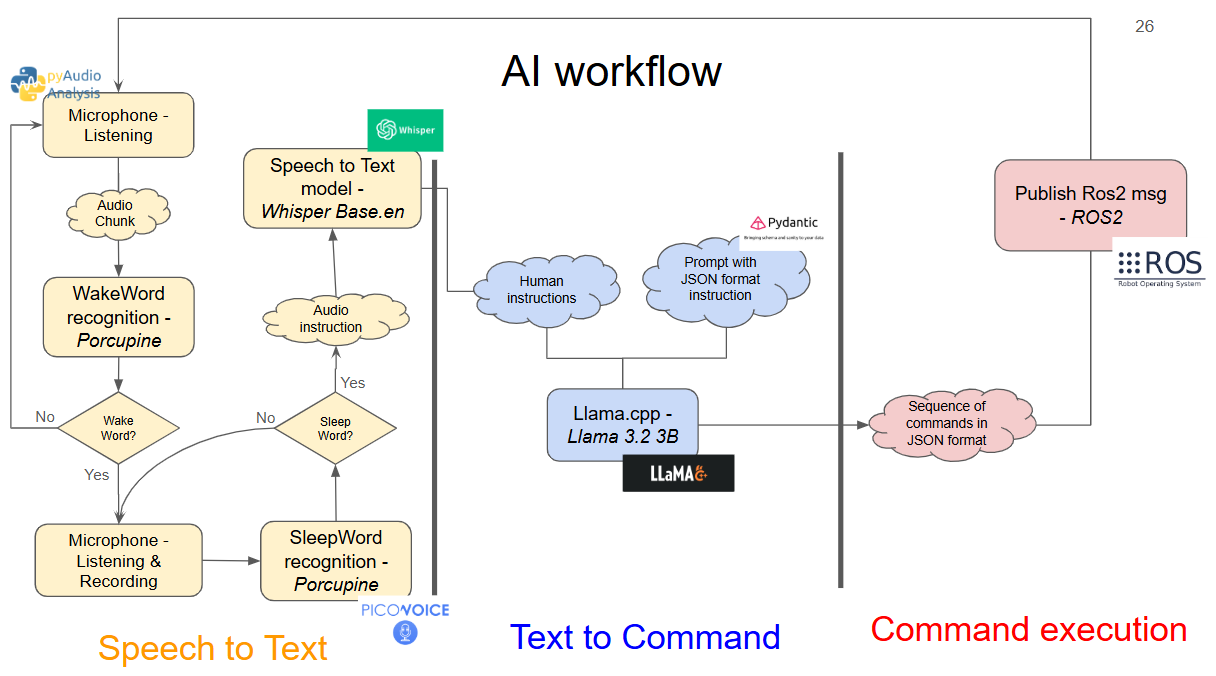
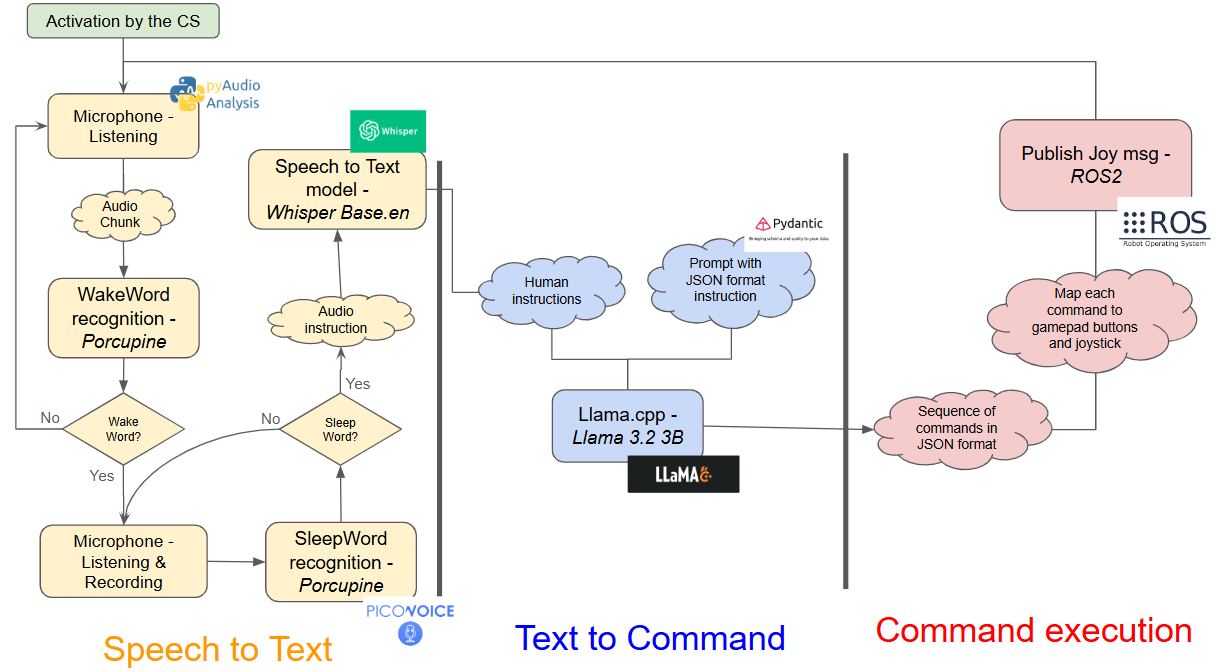
update aiworkflow and json schema

diff --git a/docker_humble_desktop/dev_ws/src/vocal_command_pkg/vocal_command_pkg/utils_comb.py b/docker_humble_desktop/dev_ws/src/vocal_command_pkg/vocal_command_pkg/utils_comb.py
@@ -213,9 +213,9 @@ def prepare_llama_cpp_generation():
         execution_speed: Optional[Literal["fast", "slow", "default"]] = Field(None, description="Execution speed for the mission")
         distance: Optional[float] = Field(None, description="Distance in meters, null otherwise")
         angle: Optional[float] = Field(None, description="Rotation angle in degrees, null otherwise")
-        camera_toggle: Optional[Literal["turn_on", "turn_off"]] = Field(None, description="Indicates whether to turn the cameras on or off, null otherwise")
-        drill_rotation_speed: Optional[int] = Field(None, description="Optional drill rotation speed, null otherwise") # in what unit??
-        drill_distance_ratio: Optional[float] = Field(None, description="Optional drill distance ratio, null otherwise") # ratio of what??
+        # camera_toggle: Optional[Literal["turn_on", "turn_off"]] = Field(None, description="Indicates whether to turn the cameras on or off, null otherwise")
+        # drill_rotation_speed: Optional[int] = Field(None, description="Optional drill rotation speed, null otherwise") # in what unit??
+        # drill_distance_ratio: Optional[float] = Field(None, description="Optional drill distance ratio, null otherwise") # ratio of what??
 
     class MissionPlan(BaseModel):
         commands: List[RoverCommand] = Field(description="List of commands to be executed by the rover")

diff --git a/docker_humble_desktop/dev_ws/src/vocal_command_pkg/vocal_command_pkg/node.py b/docker_humble_desktop/dev_ws/src/vocal_command_pkg/vocal_command_pkg/node.py
@@ -41,6 +41,7 @@ class VoCom_PubSub(Node):
 
         self.get_logger().info('ROS node for human-rover communication has started.')
         self.get_logger().info('Waiting for system activation from the Control Station...')
+        self.get_logger().info('Received (fake) boolean service from the CS')
 
         # PUBLISHER
         # qos_profile = QoSProfile(
@@ -67,7 +68,7 @@ class VoCom_PubSub(Node):
 
     def initialize_models(self):
         """Initialize Whisper models."""                                          # https://github.com/openai/whisper/discussions/1463
-        self.get_logger().info("Loading Whisper small.en model...")
+        self.get_logger().info("Loading Whisper base.en model...")
         self.model_whisper_base_en = whisper_config("small.en")
         self.get_logger().info("Whisper base.en model ready")
 

diff --git a/README.md b/README.md
@@ -135,7 +135,7 @@ Output:
 
 [comment]: <> (<img src="docs/T2C_demo.png" alt="Prompt ex" width="400">)
 
-We use a Llama model wrapper called [Llama.cpp](https://github.com/ggerganov/llama.cpp). It has a [`JSON Schema Mode`](https://llama-cpp-python.readthedocs.io/en/latest/#json-mode) which guarantees that the output is a valid JSON instance following the specified schema. The model can be easily changed as long as it is in gguf format. We use quantized LLama-3.2-3B-Instruct-Q6_K_L.gguf version from [Hugging Face](https://github.com/ggerganov/llama.cpp). 
+We use a Llama model wrapper called [Llama.cpp](https://github.com/ggerganov/llama.cpp). It has a [`JSON Schema Mode`](https://llama-cpp-python.readthedocs.io/en/latest/#json-mode) which guarantees that the output is a valid JSON instance following the specified schema. The model can be easily changed as long as it is in gguf format. We use quantized LLama-3.2-3B-Instruct-Q6_K_L.gguf version from [Hugging Face](https://huggingface.co/bartowski/Meta-Llama-3.1-8B-Instruct-GGUF). 
 
 ### 4. Commands execution
 Once the commands are loaded into a JSON file, we iterate through and execute them sequentially. Each command is translated into a Joy message and published to the `/CS/NAV_gamepad` topic. 
